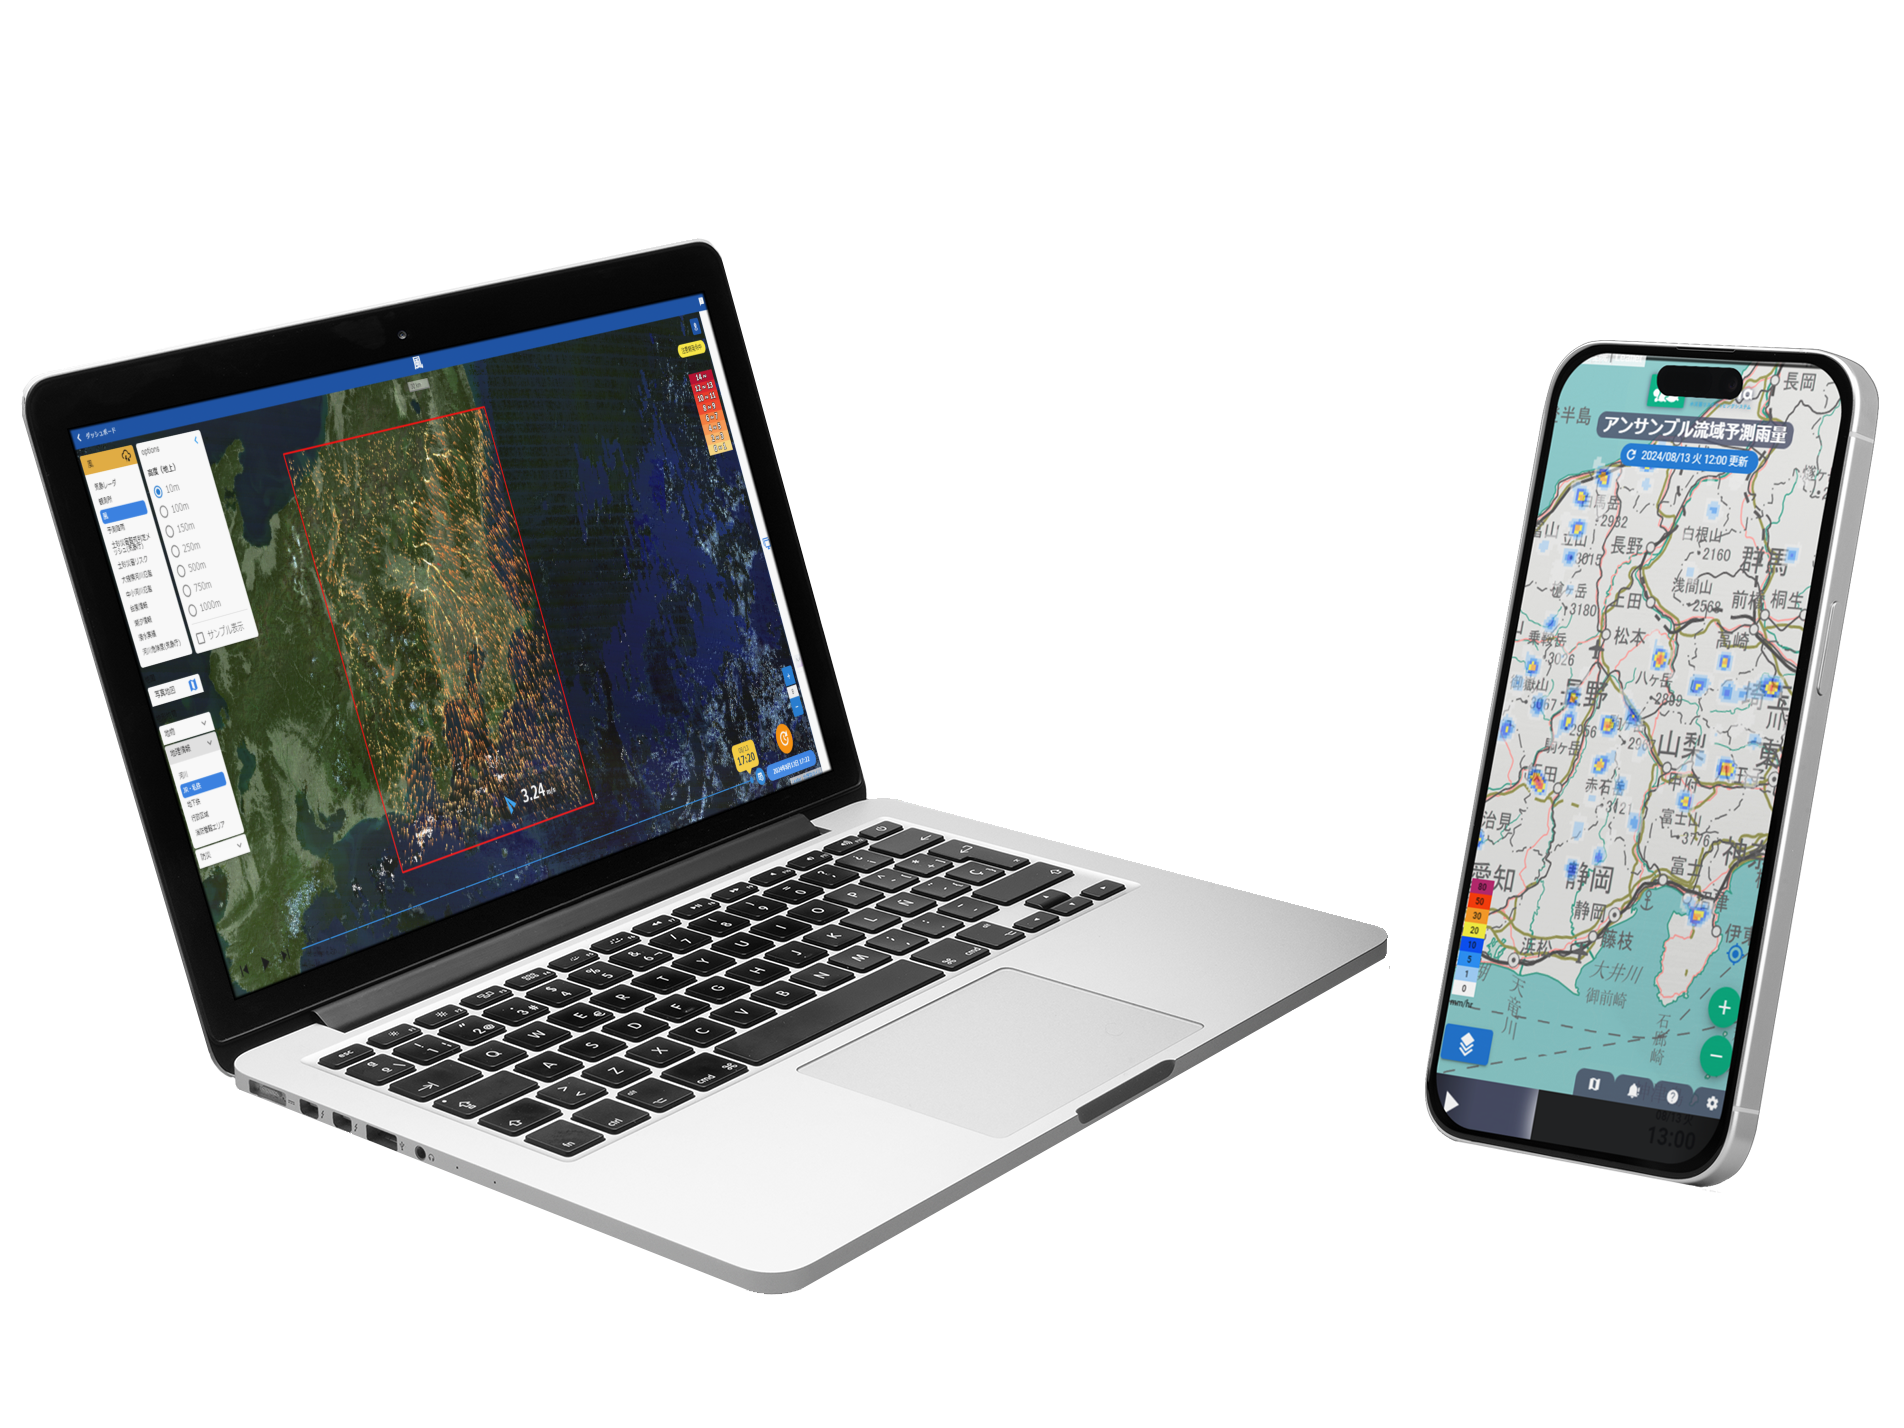
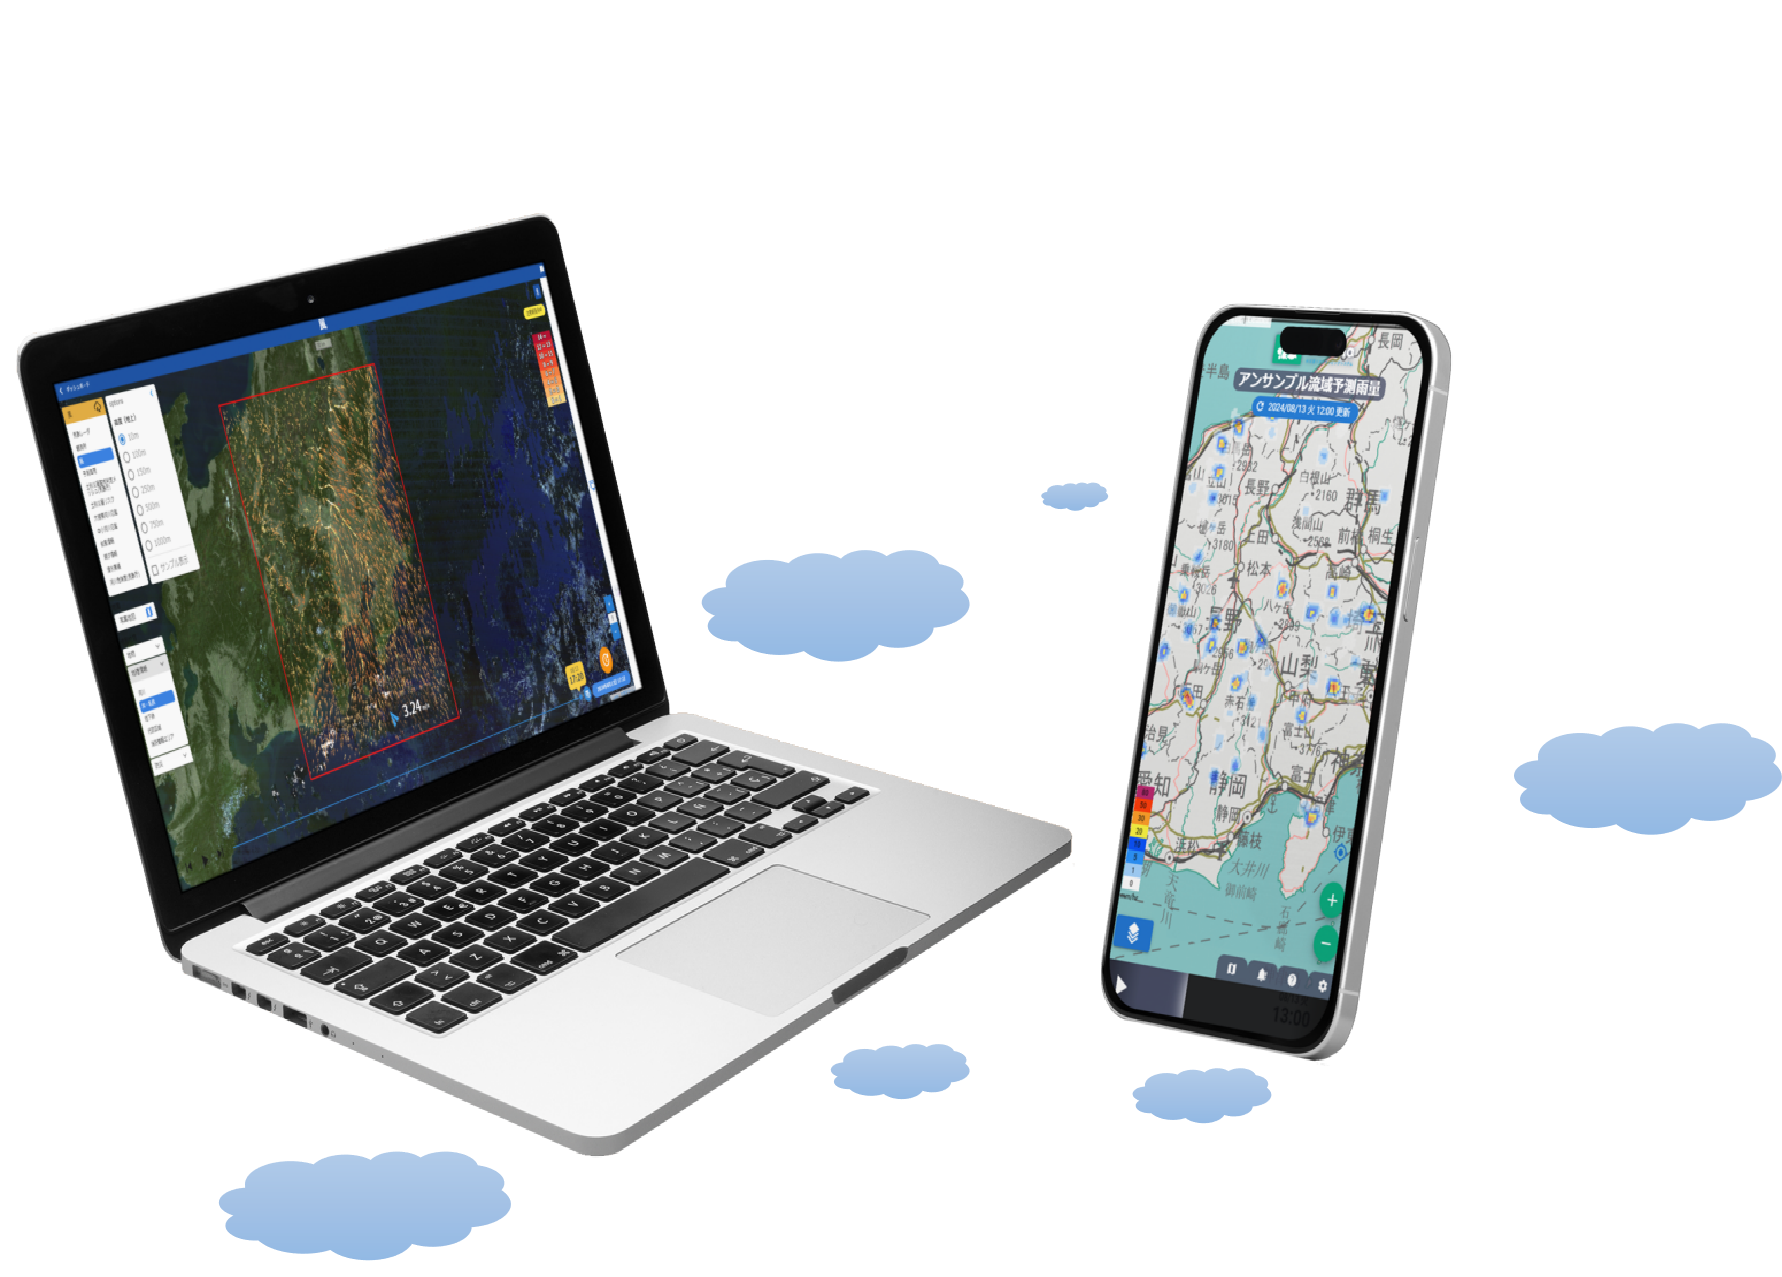
.

diff --git a/src/App.jsx b/src/App.jsx
@@ -107,9 +107,9 @@ function App() {
   return (
     <div className="w-full flex flex-col justify-center items-center">
       <div className="overflow-hidden w-full">
-        <div className="flex justify-center items-center w-full sky-background h-[700px] text-white pt-[50px] sm:pt-[100px] pb-[50px] md:pb-[100px] relative rounded-b-lg">
+        <div className="flex justify-center items-center w-full sky-background h-[800px] text-white pt-[50px] sm:pt-[100px] pb-[50px] md:pb-[100px] relative rounded-b-lg">
           <div
-            className="absolute left-[100px] top-[100px] z-100"
+            className="absolute left-[100px] top-[170px] z-100"
             data-aos="fade-up"
             data-aos-delay="50"
             data-aos-easing="easing-in-out"
@@ -118,7 +118,7 @@ function App() {
           </div>
 
           <div className="absolute bg-white w-[60%] h-[50px] bottom-[-5px] rounded-t-full"></div>
-          <div className="w-full px-[0px] sm:px-[50px] md:px-[100px] lg:px-[100px] absolute top-[50px] left-0">
+          <div className="w-full px-[0px] sm:px-[50px] md:px-[100px] lg:px-[100px] absolute top-[80px] left-0">
             <div className="w-[200px] flex flex-col jusity-center items-center">
               <a href="" className="logo-animation">
                 <img
@@ -132,12 +132,12 @@ function App() {
           </div>
           
           <div
-            className="right-[200px] absolute top-[100px]"
+            className="right-[50px] absolute top-[170px]"
             data-aos="fade-up"
             data-aos-delay="50"
             data-aos-easing="easing-in-out"
           >
-            <img src={riskmaLogo} className="w-[800px] min-w-[500px]" />
+            <img src={riskmaLogo} className="w-[1000px] min-w-[500px]" />
           </div>
         </div>
         <div className="w-full flex flex-col justify-center items-center gap-8 my-[60px] lg:my-[100px]">
